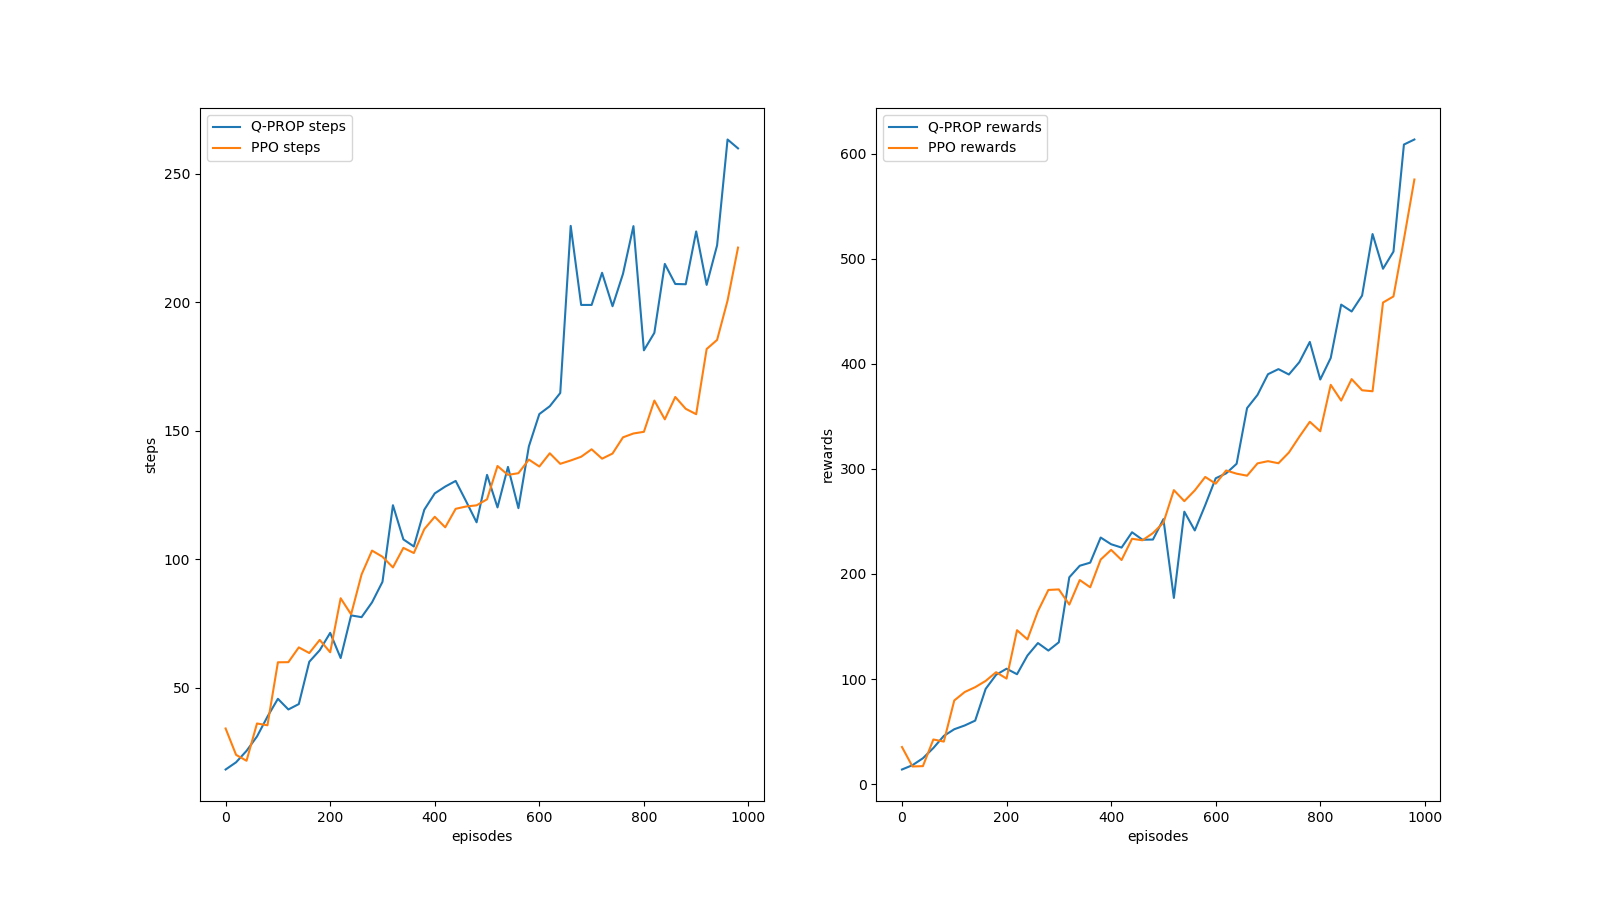
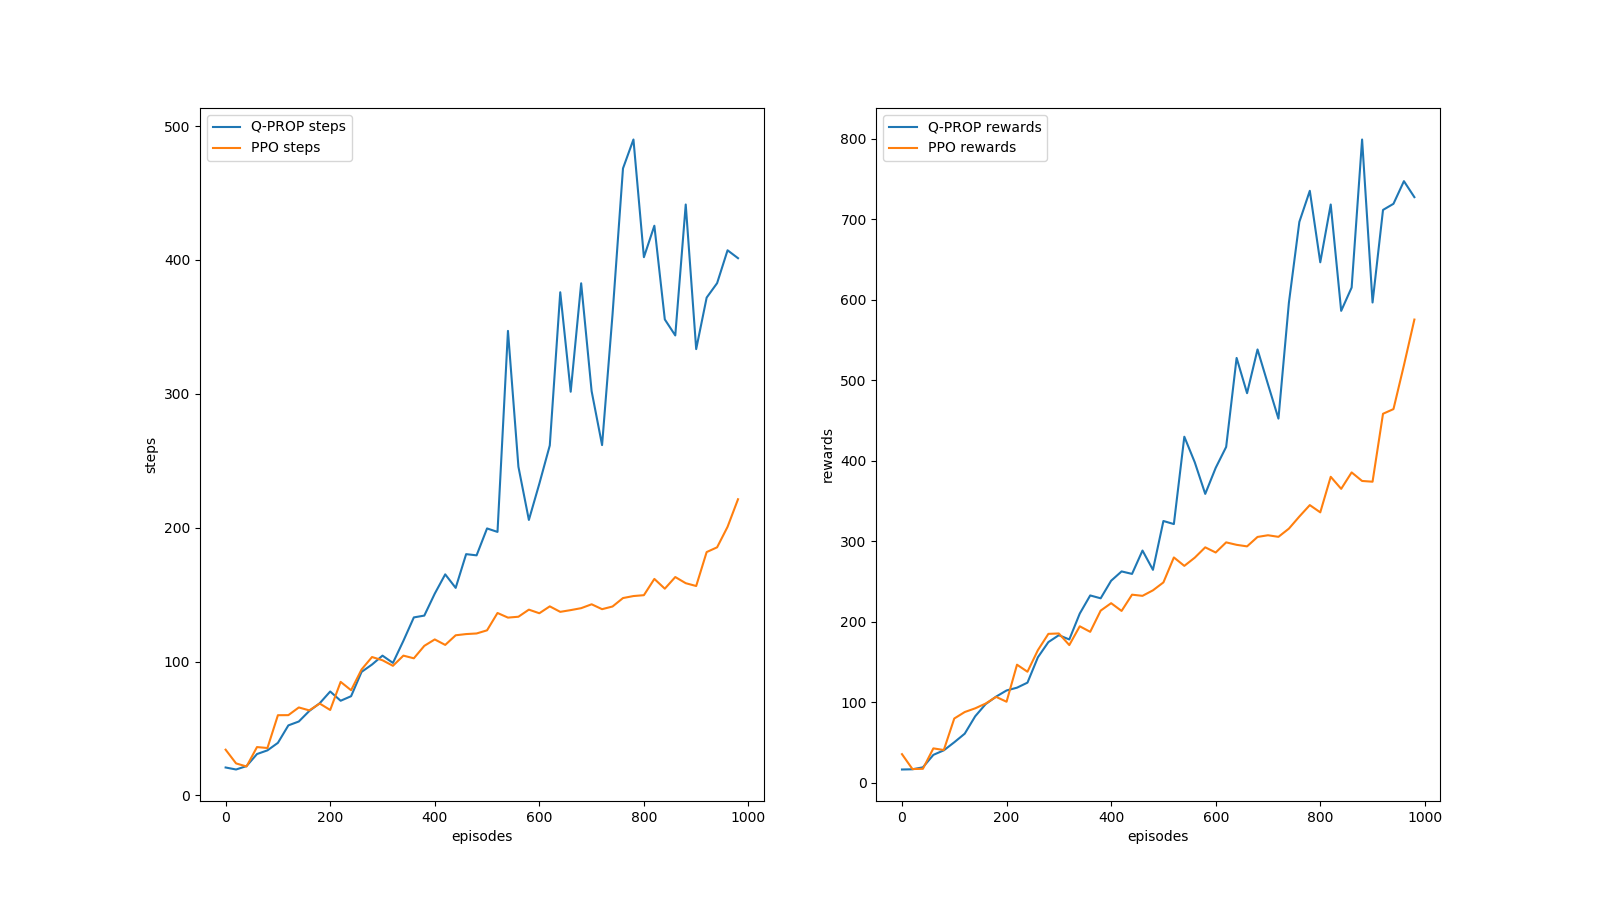
A minibatch of 64 rules!!!

diff --git a/utils.py b/utils.py
@@ -163,7 +163,7 @@ class Plotter:
 
 if __name__ == "__main__":
     # #Hopper-v2 comparison between Q-PROP and PPO
-    plotter = Plotter(['./results/QPROP/Hopper-v2_Default/2018-04-12_17_45_26/log.csv',
+    plotter = Plotter(['./results/QPROP/Hopper-v2_Default/2018-04-12_19_00_20/log.csv',
                        './results/offline-PPO/Hopper-v2_Default/2018-04-12_16_39_58/log.csv'], ['steps', 'rewards'],
                       ['Q-PROP', 'PPO'])
     plotter.plot(saveto='./graph/hp_plot_new.png')

diff --git a/README.md b/README.md
@@ -1,6 +1,6 @@
 # RL-Robotic-Control
 
-A ~~preliminary~~ fair comparison between Q-PROP and Proximal Policy Gradient in the Hopper-v2 environment.
+A ~~preliminary~~ fair comparison between Q-PROP and Proximal Policy Gradient in the Hopper-v2 environment. (Minibatch size 64)
 
 ![placeholder](graph/hp_plot_new.png)
  
